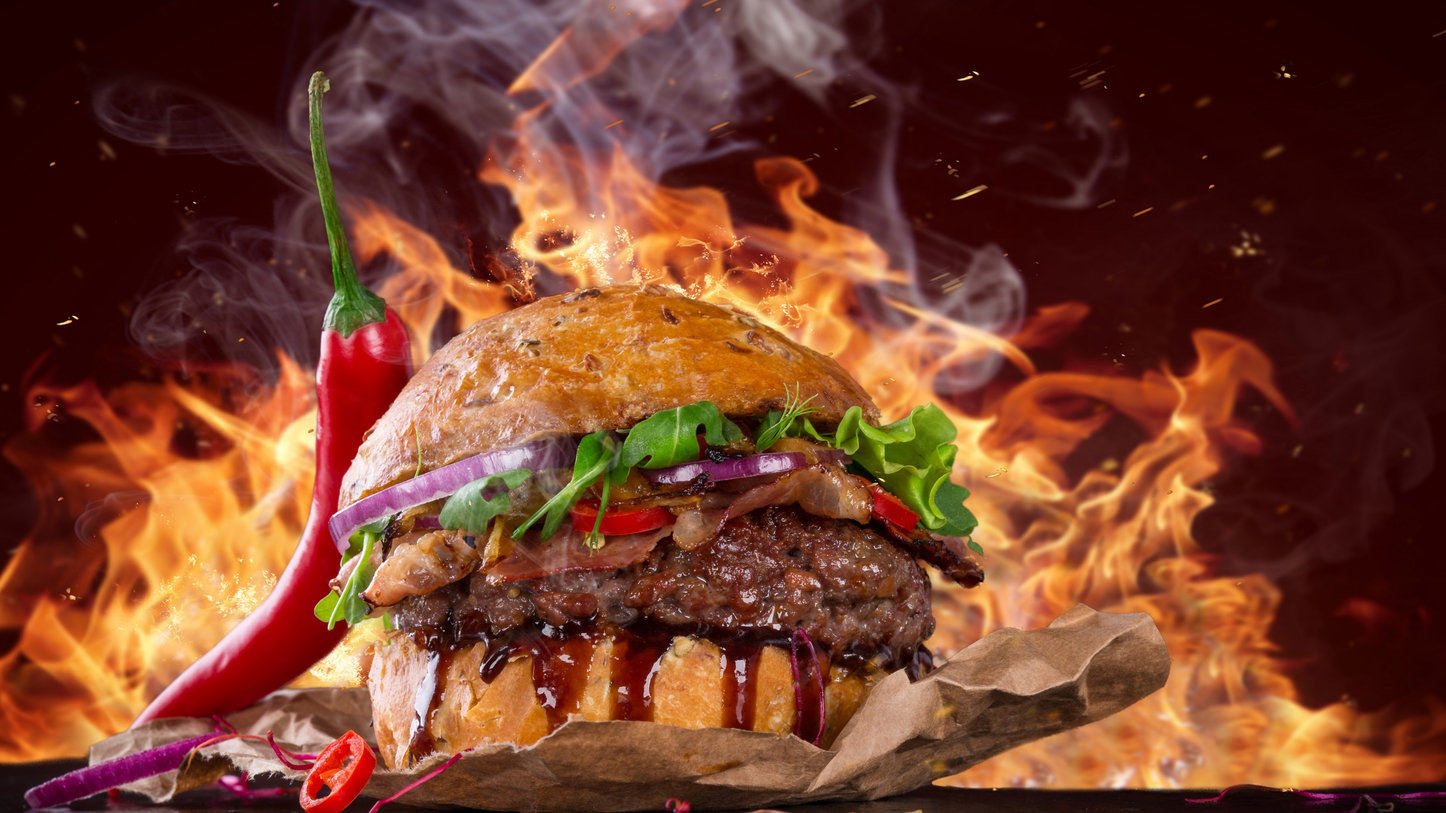
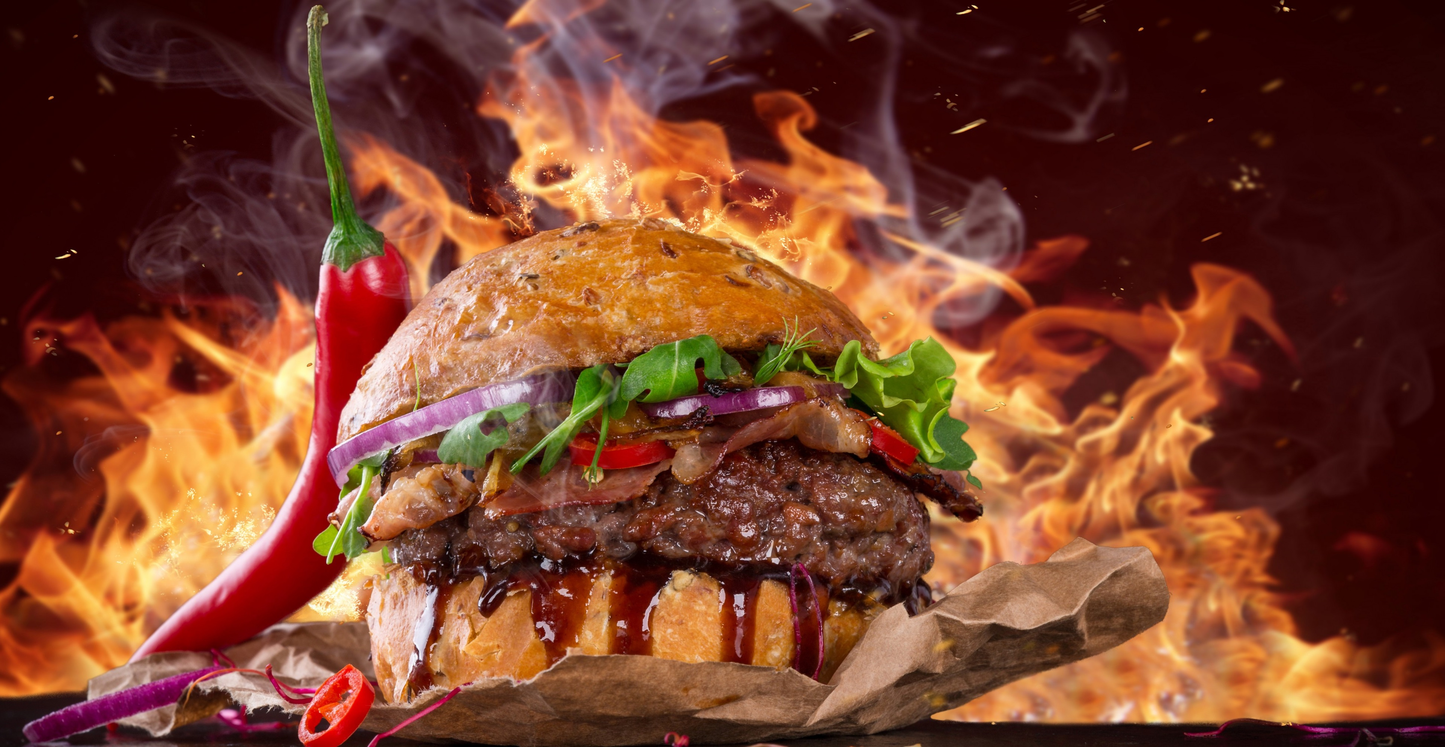
background picture change

diff --git a/app/app.js b/app/app.js
@@ -1,23 +1,21 @@
-// spinners 
-const toggleSpinner = displaySpinner =>{
-  document.getElementById('spinner').style.display = displaySpinner;  
-}
+// spinners
+const toggleSpinner = (displaySpinner) => {
+  document.getElementById("spinner").style.display = displaySpinner;
+};
 // when spinner show then card will hidden
-const toggleCard = displaySpinner =>{
-  document.getElementById('card').style.display = displaySpinner;  
-}
+const toggleCard = (displaySpinner) => {
+  document.getElementById("card").style.display = displaySpinner;
+};
 
+// empty box
+const emptyBox = (displayAlert) => {
+  document.getElementById("emptyBox").style.display = displayAlert;
+};
 
-// empty box 
-const emptyBox = displayAlert =>{
-  document.getElementById('emptyBox').style.display = displayAlert;
-}
-
-
-// No Result 
-const noResult = displayAlert =>{
-  document.getElementById('noResult').style.display = displayAlert;
-}
+// No Result
+const noResult = (displayAlert) => {
+  document.getElementById("noResult").style.display = displayAlert;
+};
 
 // searching input
 const searchFood = () => {
@@ -25,28 +23,31 @@ const searchFood = () => {
   const searchText = searchField.value;
   // console.log(searchText);
 
-  if(searchText === ''){
+  if (searchText === "") {
     // console.log('hello');
-    emptyBox('block')
-    noResult('none')  //if empty search press then noresult will be no result
-    toggleCard('none') //card is not show
-  }
-  else{
-  //add spinner
-  toggleSpinner('block')
-  toggleCard('none')
- 
-  // emptybox search or no result 
-  emptyBox('none')
-  noResult('none')
-  // clear the input field
-  searchField.value = "";
+    emptyBox("block");
+    noResult("none"); //if empty search press then noresult will be no result
+    toggleCard("none"); //card is not show
+    document.getElementById('SearchTitle').style.display = 'none';
+  } else {
+    //add spinner
+    toggleSpinner("block");
+    toggleCard("none");
 
-  // fetch the url
-  const url = `https://www.themealdb.com/api/json/v1/1/search.php?s=${searchText}`;
-  fetch(url)
-    .then((res) => res.json())
-    .then((data) => displaySearchFood(data.meals));
+    // emptybox search or no result
+    emptyBox("none");
+    noResult("none");
+     // this is only search result 
+     document.getElementById('SearchTitle').style.display = 'none';
+
+    // clear the input field
+    searchField.value = "";
+
+    // fetch the url
+    const url = `https://www.themealdb.com/api/json/v1/1/search.php?s=${searchText}`;
+    fetch(url)
+      .then((res) => res.json())
+      .then((data) => displaySearchFood(data.meals));
   }
 };
 
@@ -54,22 +55,26 @@ const searchFood = () => {
 const displaySearchFood = (datas) => {
   const foodCard = document.getElementById("foodCard");
 
-  // remove the previous card 
+  // remove the previous card
   foodCard.textContent = "";
 
   // no result alert
-  if(datas === null){
-    console.log('null value');
-    toggleSpinner('none')
-    noResult('block')
+  if (datas === null) {
+    console.log("null value");
+    toggleSpinner("none");
+    noResult("block");
   }
   datas.forEach((data) => {
     console.log(data);
-    // create card 
+
+     // this is only search result 
+     document.getElementById('SearchTitle').style.display = 'block';
+
+    // create card
     const div = document.createElement("div");
     div.classList.add("col");
     div.innerHTML = `
-        <div class="col shadow">
+        <div class="col shadow my-5">
               <div class="card h-100 text-center">
                 <img style="height: 300px;" src="${data.strMealThumb}" class="card-img-top p-2 rounded" alt="...">
                 <div class="card-body">
@@ -86,10 +91,10 @@ const displaySearchFood = (datas) => {
   });
 
   // no result alert
-  noResult('none')
+  noResult("none");
   //add spinner
-  toggleSpinner('none')
-  toggleCard('block')
+  toggleSpinner("none");
+  toggleCard("block");
 };
 
 //this function call by button
@@ -106,18 +111,25 @@ const displayDetailsInfo = (meals) => {
   // new card start from here
   const ditailInfo = document.getElementById("ditailInfo");
 
-  // remove the previous card 
+  // remove the previous card
   ditailInfo.textContent = "";
 
   const div = document.createElement("div");
   div.classList.add("modal-body");
   div.innerHTML = `
-          <img style="height: 150px;" class="rounded-circle mb-3" src="${meals.strMealThumb}" class="card-img-top" alt="...">
+          <img style="height: 150px;" class="rounded-circle mb-3" src="${
+            meals.strMealThumb
+          }" class="card-img-top" alt="...">
           <div class="card-body">
             <h4>${meals.strMeal}</h4>
-            <h6 class="bg-white p-2 text-danger fw-bold">Famous for ${meals.strArea}</h6>
+            <h6 class="bg-white p-2 text-danger fw-bold">Famous for ${
+              meals.strArea
+            }</h6>
             <h5>Instructions:</h5>
-            <p class="card-text fw-bold">${meals.strInstructions.slice(0, 200)}</p>
+            <p class="card-text fw-bold">${meals.strInstructions.slice(
+              0,
+              200
+            )}</p>
             <a href="${meals.strYoutube}" class="btn btn-danger">Watch Video</a>
           </div>
       `;

diff --git a/index.html b/index.html
@@ -25,7 +25,7 @@
      <nav class="navbar bg-transparent">
       <div class="container">
         <a class="navbar-brand text-white fs-3 fw-bold text-uppercase" href="#">
-          <img src="./pic/icon.png" alt="Bootstrap" width="90" height="60" />Foodies🍽Only
+          <img src="./pic/icon.png" alt="Bootstrap" width="90" height="60" />Food🍽Only
         </a>
       </div>
     </nav>
@@ -54,7 +54,7 @@
      <!-- searching site end -->
    </section>
     <!-- added spinners -->
-    <div id="spinner" class="text-center mt-5">
+    <div id="spinner" class="text-center my-5">
       <div class="spinner-border text-warning" role="status">
         <span class="visually-hidden">Loading...</span>
       </div>
@@ -86,13 +86,16 @@
       </div>
     </div>
     <!-- modal end -->
+    <!-- search title section start -->
+    <h2 id="SearchTitle" class="text-center fw-bold my-5">Search Your Food Recipe</h2>
+    <!-- search title section end -->
     <!-- card -->
-    <div id="card" class="mt-5">
-      <div id="foodCard" class="row row-cols-1 row-cols-sm-2 row-cols-md-3 g-4 m-4"></div>
+    <div id="card">
+      <div id="foodCard" class="row row-cols-1 row-cols-sm-2 row-cols-md-3 g-4 mx-5"></div>
     </div>
     <!-- card end -->
     <!-- footer start -->
-<div class="mt-5 footer-pic">
+<div class="footer-pic">
   <footer class="text-lg-start">
     <div class="container pt-5 d-flex justify-content-center py-4">
       <button type="button" class="btn btn-primary btn-lg btn-floating mx-2" style="background-color: #54456b;">

diff --git a/style.css b/style.css
@@ -6,11 +6,11 @@
 
 .hero{
   background: url(./pic/hero.jpg);
-  background-position: bottom;
+  background-position: center;
   background-repeat: no-repeat;
   background-size: cover;
   background-attachment: fixed;
-  height: 70vh;
+  height: 60vh;
 }
 
 
@@ -31,9 +31,13 @@ nav a{
 }
 
 
+#SearchTitle {
+  display: none;
+}
+
 .footer-pic{
-  background: url(./pic/footer.jpg) no-repeat;
+  background: url(./pic/hero.jpg) no-repeat;
   background-size: cover;
-  background-position: top;
-  height: 40vh;
+  background-position: bottom;
+  height: 48vh;
 }
